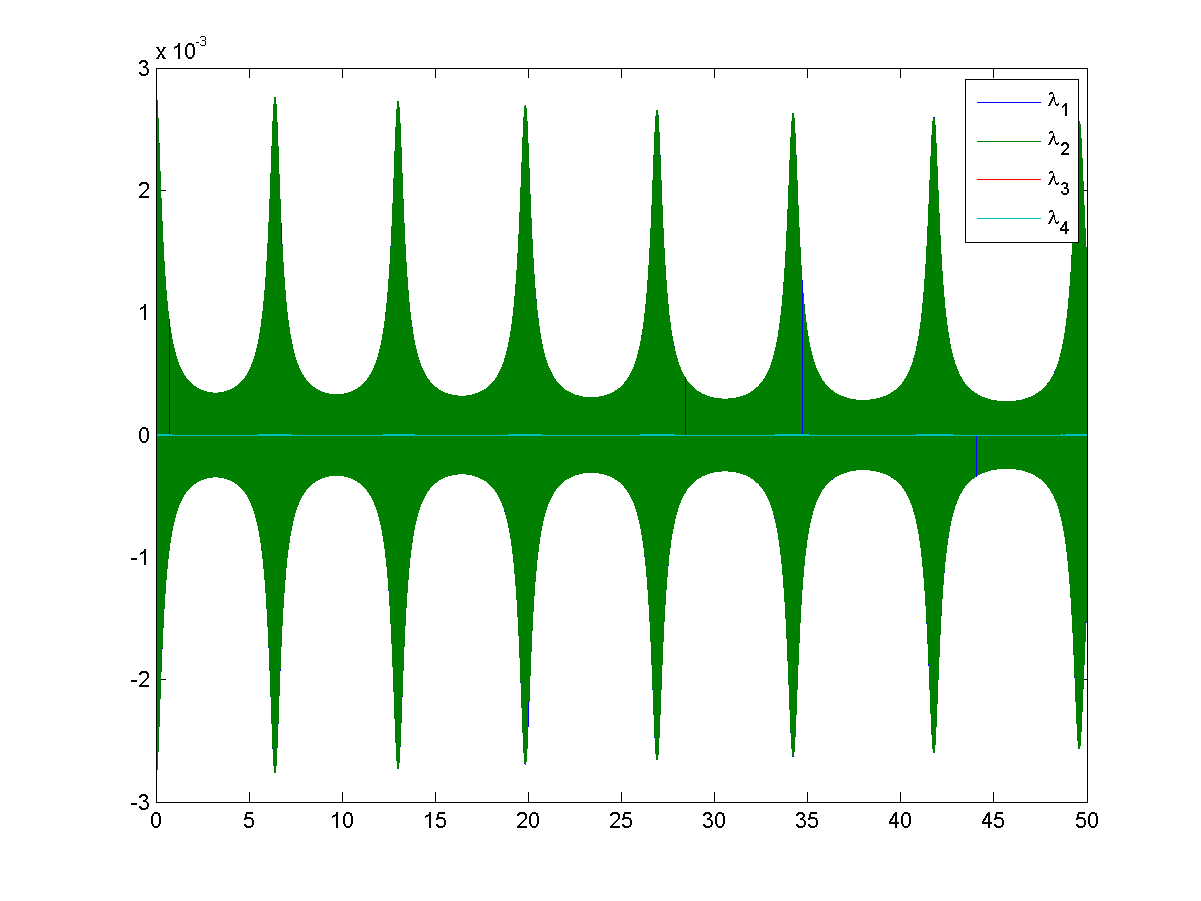
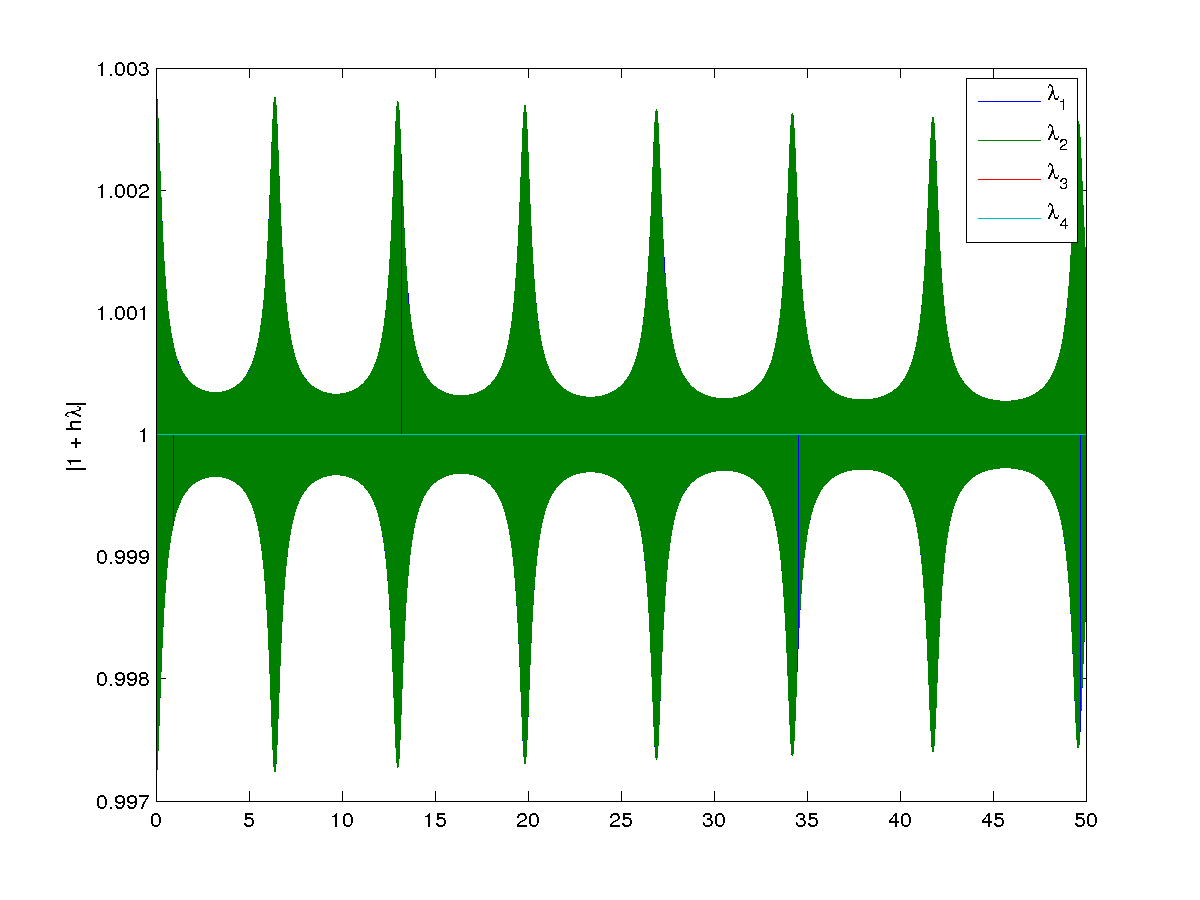
Change error factor graphs

diff --git a/devoir4/Q1/q1.tex b/devoir4/Q1/q1.tex
@@ -203,7 +203,7 @@ Nous allons appliquer à ce cas les différentes méthodes d'intégration numér
   \end{subfigure}
   \begin{subfigure}[b]{0.45\textwidth}
     \includegraphics[width=\textwidth]{images/Q1_explicite_lambda.png}
-    \caption{$h\lambda$ en fonction du temps pour explicite}
+    \caption{$|1 + h\lambda|$ en fonction du temps pour explicite}
     \label{fig:q1_explicite_lambda}
   \end{subfigure}
   \caption{Résultats pour la question 1 pour Euler explicite}
@@ -228,7 +228,7 @@ Nous allons appliquer à ce cas les différentes méthodes d'intégration numér
   \end{subfigure}
   \begin{subfigure}[b]{0.45\textwidth}
     \includegraphics[width=\textwidth]{images/Q1_implicite_lambda.png}
-    \caption{$h\lambda$ en fonction du temps pour implicite}
+    \caption{$1/|1-h\lambda|$ en fonction du temps pour implicite}
     \label{fig:q1_implicite_lambda}
   \end{subfigure}
   \caption{Résultats pour la question 1 pour Euler implicite}

diff --git a/devoir4/matlab/Q.m b/devoir4/matlab/Q.m
@@ -75,14 +75,20 @@ end
 plot(t, Hs, 'linewidth', 0.5);
 saveas(gcf, sprintf('../images/Q%d_%s_H', num, method), 'png');
 
-if num == 1
+if num == 1 && strcmp(method, 'explicite') || strcmp(method, 'implicite')
     figure();
     lambda = zeros(4,n+1);
     xlabel('temps');
     for i = 1:n+1
         lambda(:,i) = eigen_values(q(:,i), p(:,i));
     end
-    plot(t, real(h*lambda), 'linewidth', 0.5);
+    if strcmp(method, 'explicite')
+        plot(t, abs(1 + h*lambda), 'linewidth', 0.5);
+        ylabel('|1 + h\lambda|');
+    else
+        plot(t, abs(1 ./ (1 - h*lambda)), 'linewidth', 0.5);
+        ylabel('1 / |1 - h\lambda|');
+    end
     legend('\lambda_1', '\lambda_2', '\lambda_3', '\lambda_4');
     saveas(gcf, sprintf('../images/Q%d_%s_lambda', num, method), 'png');
 end
